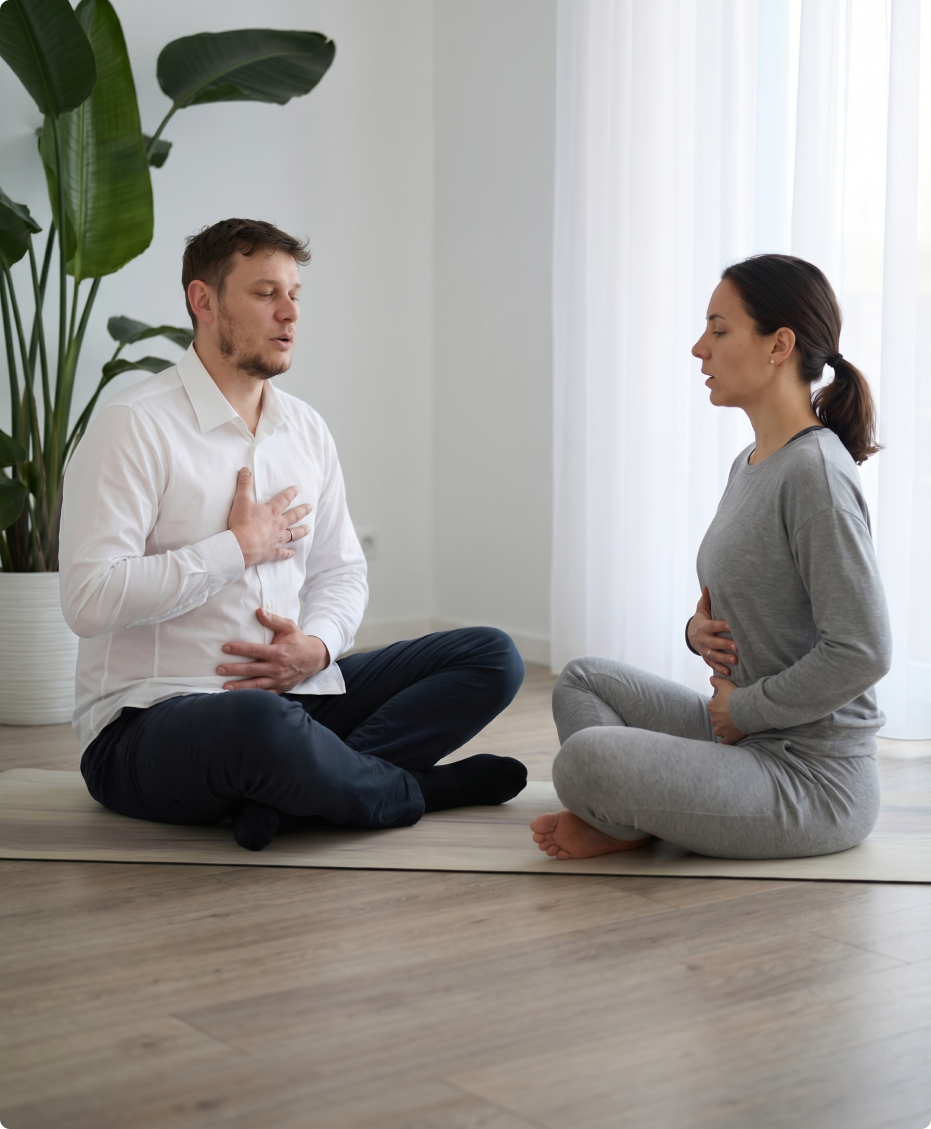
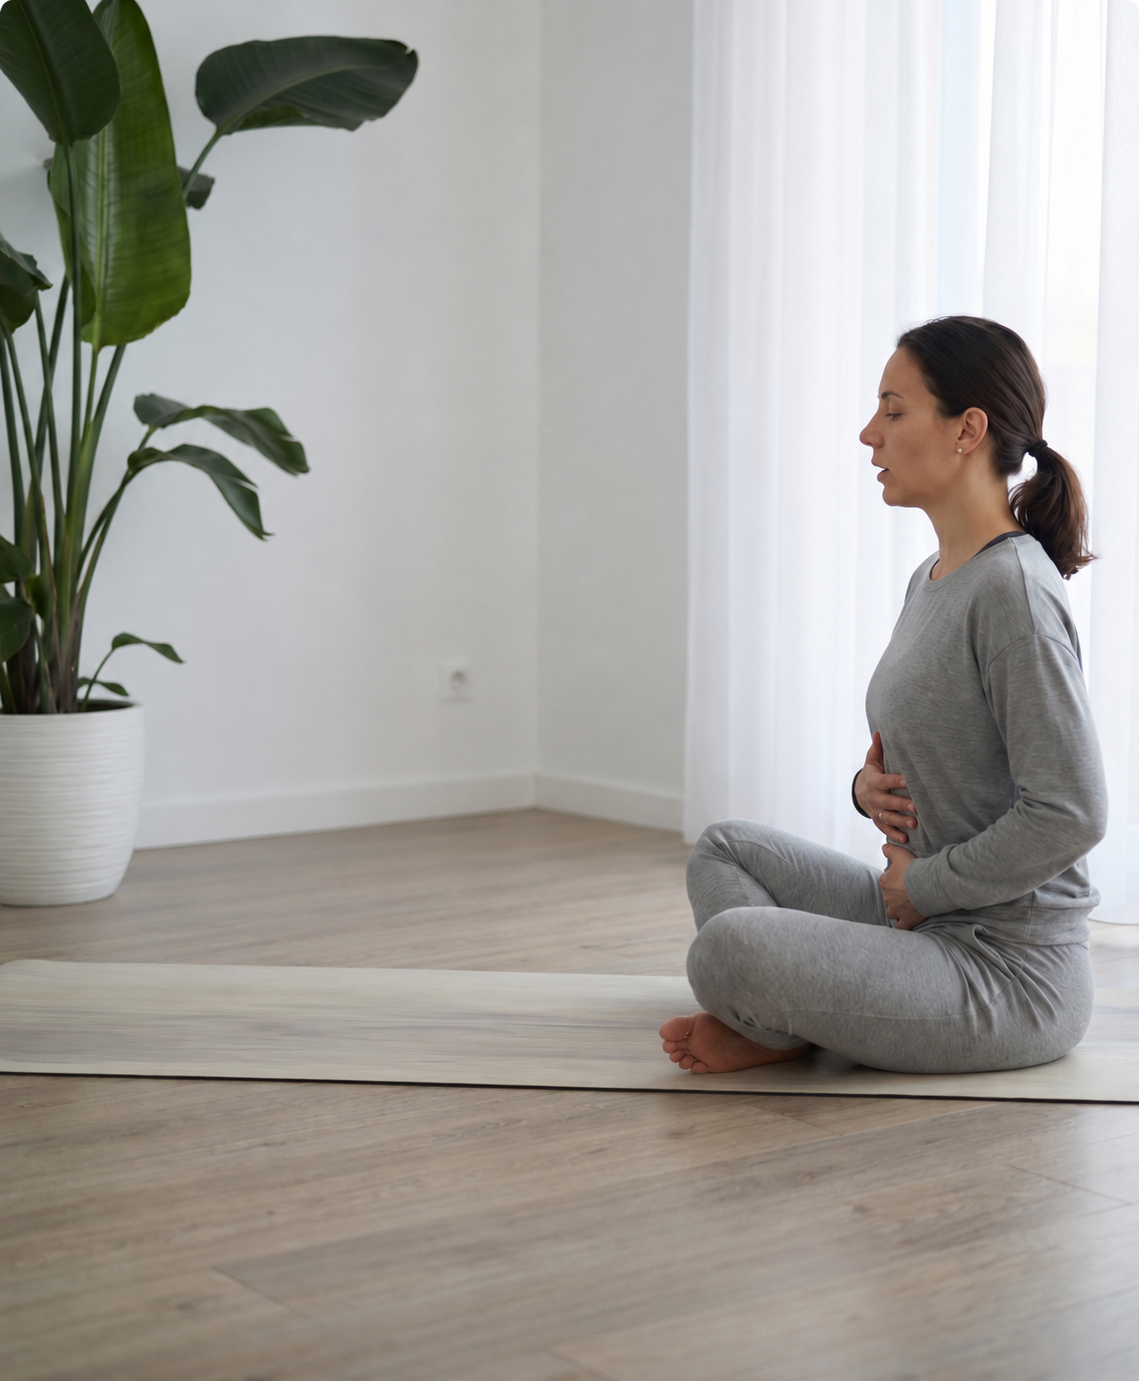
added info to footer; changed content

diff --git a/physiotherapie.html b/physiotherapie.html
@@ -315,7 +315,7 @@
                   <div class="review-card">
                     <div class="review-card__inner">
                       <div class="review-card__bottom">
-                        <h3 class="review-card__service">Allgemeine Physiotherapie</h3>
+                        <h3 class="review-card__service">Allgemeine Physiotherapie</h3>
                         <ul class="review-card__list">
                           <li class="review-card__item">Allgemeine Physiotherapie</li>
                           <li class="review-card__item">Manuelle Behandlung</li>
@@ -332,7 +332,7 @@
                   <div class="review-card">
                     <div class="review-card__inner">
                       <div class="review-card__bottom">
-                        <h3 class="review-card__service">Zusätzliche Anwendungen</h3>
+                        <h3 class="review-card__service">Zusätzliche Anwendungen</h3>
                         <ul class="review-card__list">
                           <li class="review-card__item">Wärmebehandlungen (z.B. Heißluft, Naturmoorpackungen, heiße Wickel)</li>
                           <li class="review-card__item">Kältetherapie (wie Eispackungen)</li>
@@ -547,9 +547,26 @@
             <path d="M5.95948 14.4189V0.918946M0.459473 6.41895L5.95948 0.918946L11.4595 6.41895" stroke="white" stroke-width="1.3"/>
           </svg>
         </button>
-        <div class="footer__email-info">
-          <span class="footer__email-label">e-mail</span>
-          <a href="mailto:[email redacted]" class="footer__email">[email redacted]</a>
+        <div class="footer__wrapper">
+          <div class="footer__email-info">
+            <span class="footer__email-label">e-mail</span>
+            <a href="mailto:[email redacted]" class="footer__email">[email redacted]</a>
+          </div>
+          <div class="footer__email-info">
+            <span class="footer__email-label">adresse</span>
+            <span class="footer__email">Max-Lang-Straße 5 70771 Leinfelden-Echterdingen</span>
+          </div>
+          <div class="footer__email-info">
+            <span class="footer__email-label">telefon</span>
+            <a href="tel:+4971150434348" class="footer__email">0711 - 5043 4348</a>
+            <a href="tel:+49017610716925" class="footer__email">0176 - 10716925</a>
+          </div>
+          <div class="footer__email-info">
+            <span class="footer__email-label">Behandlungszeiten</span>
+            <span class="footer__email">Mo: 8 - 18 Uhr</span>
+            <span class="footer__email">Di-Mi-Do: 8 - 20 Uhr</span>
+            <span class="footer__email">Fr: 8 - 15 Uhr</span>
+          </div>
         </div>
       </div>
 

diff --git a/t-shape.html b/t-shape.html
@@ -106,7 +106,7 @@
 
         <div class="philosophy-video-wrap" id="videoWrap">
           <video class="philosophy-video" id="sectionVideo" loop playsinline>
-            <source src="assets/vid/section.mp4" type="video/mp4">
+            <source src="assets/vid/t-shape-philosophy.mp4" type="video/mp4">
           </video>
           <button class="philosophy-video-btn" id="videoPlayBtn" type="button" aria-label="Play video">
             <svg width="20" height="22" viewBox="0 0 20 22" fill="none" xmlns="http://www.w3.org/2000/svg">
@@ -659,9 +659,26 @@
             <path d="M5.95948 14.4189V0.918946M0.459473 6.41895L5.95948 0.918946L11.4595 6.41895" stroke="white" stroke-width="1.3"/>
           </svg>
         </button>
-        <div class="footer__email-info">
-          <span class="footer__email-label">e-mail</span>
-          <a href="mailto:[email redacted]" class="footer__email">[email redacted]</a>
+        <div class="footer__wrapper">
+          <div class="footer__email-info">
+            <span class="footer__email-label">e-mail</span>
+            <a href="mailto:[email redacted]" class="footer__email">[email redacted]</a>
+          </div>
+          <div class="footer__email-info">
+            <span class="footer__email-label">adresse</span>
+            <span class="footer__email">Max-Lang-Straße 5 70771 Leinfelden-Echterdingen</span>
+          </div>
+          <div class="footer__email-info">
+            <span class="footer__email-label">telefon</span>
+            <a href="tel:+4971150434348" class="footer__email">0711 - 5043 4348</a>
+            <a href="tel:+49017610716925" class="footer__email">0176 - 10716925</a>
+          </div>
+          <div class="footer__email-info">
+            <span class="footer__email-label">Behandlungszeiten</span>
+            <span class="footer__email">Mo: 8 - 18 Uhr</span>
+            <span class="footer__email">Di-Mi-Do: 8 - 20 Uhr</span>
+            <span class="footer__email">Fr: 8 - 15 Uhr</span>
+          </div>
         </div>
       </div>
 

diff --git a/about-us.html b/about-us.html
@@ -419,9 +419,26 @@
             <path d="M5.95948 14.4189V0.918946M0.459473 6.41895L5.95948 0.918946L11.4595 6.41895" stroke="white" stroke-width="1.3"/>
           </svg>
         </button>
-        <div class="footer__email-info">
-          <span class="footer__email-label">e-mail</span>
-          <a href="mailto:[email redacted]" class="footer__email">[email redacted]</a>
+        <div class="footer__wrapper">
+          <div class="footer__email-info">
+            <span class="footer__email-label">e-mail</span>
+            <a href="mailto:[email redacted]" class="footer__email">[email redacted]</a>
+          </div>
+          <div class="footer__email-info">
+            <span class="footer__email-label">adresse</span>
+            <span class="footer__email">Max-Lang-Straße 5 70771 Leinfelden-Echterdingen</span>
+          </div>
+          <div class="footer__email-info">
+            <span class="footer__email-label">telefon</span>
+            <a href="tel:+4971150434348" class="footer__email">0711 - 5043 4348</a>
+            <a href="tel:+49017610716925" class="footer__email">0176 - 10716925</a>
+          </div>
+          <div class="footer__email-info">
+            <span class="footer__email-label">Behandlungszeiten</span>
+            <span class="footer__email">Mo: 8 - 18 Uhr</span>
+            <span class="footer__email">Di-Mi-Do: 8 - 20 Uhr</span>
+            <span class="footer__email">Fr: 8 - 15 Uhr</span>
+          </div>
         </div>
       </div>
 

diff --git a/atemtherapie.html b/atemtherapie.html
@@ -576,9 +576,26 @@
             <path d="M5.95948 14.4189V0.918946M0.459473 6.41895L5.95948 0.918946L11.4595 6.41895" stroke="white" stroke-width="1.3"/>
           </svg>
         </button>
-        <div class="footer__email-info">
-          <span class="footer__email-label">e-mail</span>
-          <a href="mailto:[email redacted]" class="footer__email">[email redacted]</a>
+        <div class="footer__wrapper">
+          <div class="footer__email-info">
+            <span class="footer__email-label">e-mail</span>
+            <a href="mailto:[email redacted]" class="footer__email">[email redacted]</a>
+          </div>
+          <div class="footer__email-info">
+            <span class="footer__email-label">adresse</span>
+            <span class="footer__email">Max-Lang-Straße 5 70771 Leinfelden-Echterdingen</span>
+          </div>
+          <div class="footer__email-info">
+            <span class="footer__email-label">telefon</span>
+            <a href="tel:+4971150434348" class="footer__email">0711 - 5043 4348</a>
+            <a href="tel:+49017610716925" class="footer__email">0176 - 10716925</a>
+          </div>
+          <div class="footer__email-info">
+            <span class="footer__email-label">Behandlungszeiten</span>
+            <span class="footer__email">Mo: 8 - 18 Uhr</span>
+            <span class="footer__email">Di-Mi-Do: 8 - 20 Uhr</span>
+            <span class="footer__email">Fr: 8 - 15 Uhr</span>
+          </div>
         </div>
       </div>
 

diff --git a/cmd-behandlung.html b/cmd-behandlung.html
@@ -768,9 +768,26 @@
             <path d="M5.95948 14.4189V0.918946M0.459473 6.41895L5.95948 0.918946L11.4595 6.41895" stroke="white" stroke-width="1.3"/>
           </svg>
         </button>
-        <div class="footer__email-info">
-          <span class="footer__email-label">e-mail</span>
-          <a href="mailto:[email redacted]" class="footer__email">[email redacted]</a>
+        <div class="footer__wrapper">
+          <div class="footer__email-info">
+            <span class="footer__email-label">e-mail</span>
+            <a href="mailto:[email redacted]" class="footer__email">[email redacted]</a>
+          </div>
+          <div class="footer__email-info">
+            <span class="footer__email-label">adresse</span>
+            <span class="footer__email">Max-Lang-Straße 5 70771 Leinfelden-Echterdingen</span>
+          </div>
+          <div class="footer__email-info">
+            <span class="footer__email-label">telefon</span>
+            <a href="tel:+4971150434348" class="footer__email">0711 - 5043 4348</a>
+            <a href="tel:+49017610716925" class="footer__email">0176 - 10716925</a>
+          </div>
+          <div class="footer__email-info">
+            <span class="footer__email-label">Behandlungszeiten</span>
+            <span class="footer__email">Mo: 8 - 18 Uhr</span>
+            <span class="footer__email">Di-Mi-Do: 8 - 20 Uhr</span>
+            <span class="footer__email">Fr: 8 - 15 Uhr</span>
+          </div>
         </div>
       </div>
 

diff --git a/index.html b/index.html
@@ -820,9 +820,26 @@
             <path d="M5.95948 14.4189V0.918946M0.459473 6.41895L5.95948 0.918946L11.4595 6.41895" stroke="white" stroke-width="1.3"/>
           </svg>
         </button>
-        <div class="footer__email-info">
-          <span class="footer__email-label">e-mail</span>
-          <a href="mailto:[email redacted]" class="footer__email">[email redacted]</a>
+        <div class="footer__wrapper">
+          <div class="footer__email-info">
+            <span class="footer__email-label">e-mail</span>
+            <a href="mailto:[email redacted]" class="footer__email">[email redacted]</a>
+          </div>
+          <div class="footer__email-info">
+            <span class="footer__email-label">adresse</span>
+            <span class="footer__email">Max-Lang-Straße 5 70771 Leinfelden-Echterdingen</span>
+          </div>
+          <div class="footer__email-info">
+            <span class="footer__email-label">telefon</span>
+            <a href="tel:+4971150434348" class="footer__email">0711 - 5043 4348</a>
+            <a href="tel:+49017610716925" class="footer__email">0176 - 10716925</a>
+          </div>
+          <div class="footer__email-info">
+            <span class="footer__email-label">Behandlungszeiten</span>
+            <span class="footer__email">Mo: 8 - 18 Uhr</span>
+            <span class="footer__email">Di-Mi-Do: 8 - 20 Uhr</span>
+            <span class="footer__email">Fr: 8 - 15 Uhr</span>
+          </div>
         </div>
       </div>
 

diff --git a/jobs.html b/jobs.html
@@ -386,9 +386,26 @@
             <path d="M5.95948 14.4189V0.918946M0.459473 6.41895L5.95948 0.918946L11.4595 6.41895" stroke="white" stroke-width="1.3"/>
           </svg>
         </button>
-        <div class="footer__email-info">
-          <span class="footer__email-label">e-mail</span>
-          <a href="mailto:[email redacted]" class="footer__email">[email redacted]</a>
+        <div class="footer__wrapper">
+          <div class="footer__email-info">
+            <span class="footer__email-label">e-mail</span>
+            <a href="mailto:[email redacted]" class="footer__email">[email redacted]</a>
+          </div>
+          <div class="footer__email-info">
+            <span class="footer__email-label">adresse</span>
+            <span class="footer__email">Max-Lang-Straße 5 70771 Leinfelden-Echterdingen</span>
+          </div>
+          <div class="footer__email-info">
+            <span class="footer__email-label">telefon</span>
+            <a href="tel:+4971150434348" class="footer__email">0711 - 5043 4348</a>
+            <a href="tel:+49017610716925" class="footer__email">0176 - 10716925</a>
+          </div>
+          <div class="footer__email-info">
+            <span class="footer__email-label">Behandlungszeiten</span>
+            <span class="footer__email">Mo: 8 - 18 Uhr</span>
+            <span class="footer__email">Di-Mi-Do: 8 - 20 Uhr</span>
+            <span class="footer__email">Fr: 8 - 15 Uhr</span>
+          </div>
         </div>
       </div>
 

diff --git a/osteopathie.html b/osteopathie.html
@@ -587,9 +587,26 @@
             <path d="M5.95948 14.4189V0.918946M0.459473 6.41895L5.95948 0.918946L11.4595 6.41895" stroke="white" stroke-width="1.3"/>
           </svg>
         </button>
-        <div class="footer__email-info">
-          <span class="footer__email-label">e-mail</span>
-          <a href="mailto:[email redacted]" class="footer__email">[email redacted]</a>
+        <div class="footer__wrapper">
+          <div class="footer__email-info">
+            <span class="footer__email-label">e-mail</span>
+            <a href="mailto:[email redacted]" class="footer__email">[email redacted]</a>
+          </div>
+          <div class="footer__email-info">
+            <span class="footer__email-label">adresse</span>
+            <span class="footer__email">Max-Lang-Straße 5 70771 Leinfelden-Echterdingen</span>
+          </div>
+          <div class="footer__email-info">
+            <span class="footer__email-label">telefon</span>
+            <a href="tel:+4971150434348" class="footer__email">0711 - 5043 4348</a>
+            <a href="tel:+49017610716925" class="footer__email">0176 - 10716925</a>
+          </div>
+          <div class="footer__email-info">
+            <span class="footer__email-label">Behandlungszeiten</span>
+            <span class="footer__email">Mo: 8 - 18 Uhr</span>
+            <span class="footer__email">Di-Mi-Do: 8 - 20 Uhr</span>
+            <span class="footer__email">Fr: 8 - 15 Uhr</span>
+          </div>
         </div>
       </div>
 

diff --git a/relounge.html b/relounge.html
@@ -654,9 +654,26 @@
             <path d="M5.95948 14.4189V0.918946M0.459473 6.41895L5.95948 0.918946L11.4595 6.41895" stroke="white" stroke-width="1.3"/>
           </svg>
         </button>
-        <div class="footer__email-info">
-          <span class="footer__email-label">e-mail</span>
-          <a href="mailto:[email redacted]" class="footer__email">[email redacted]</a>
+        <div class="footer__wrapper">
+          <div class="footer__email-info">
+            <span class="footer__email-label">e-mail</span>
+            <a href="mailto:[email redacted]" class="footer__email">[email redacted]</a>
+          </div>
+          <div class="footer__email-info">
+            <span class="footer__email-label">adresse</span>
+            <span class="footer__email">Max-Lang-Straße 5 70771 Leinfelden-Echterdingen</span>
+          </div>
+          <div class="footer__email-info">
+            <span class="footer__email-label">telefon</span>
+            <a href="tel:+4971150434348" class="footer__email">0711 - 5043 4348</a>
+            <a href="tel:+49017610716925" class="footer__email">0176 - 10716925</a>
+          </div>
+          <div class="footer__email-info">
+            <span class="footer__email-label">Behandlungszeiten</span>
+            <span class="footer__email">Mo: 8 - 18 Uhr</span>
+            <span class="footer__email">Di-Mi-Do: 8 - 20 Uhr</span>
+            <span class="footer__email">Fr: 8 - 15 Uhr</span>
+          </div>
         </div>
       </div>
 

diff --git a/sporttherapie.html b/sporttherapie.html
@@ -558,9 +558,26 @@
             <path d="M5.95948 14.4189V0.918946M0.459473 6.41895L5.95948 0.918946L11.4595 6.41895" stroke="white" stroke-width="1.3"/>
           </svg>
         </button>
-        <div class="footer__email-info">
-          <span class="footer__email-label">e-mail</span>
-          <a href="mailto:[email redacted]" class="footer__email">[email redacted]</a>
+        <div class="footer__wrapper">
+          <div class="footer__email-info">
+            <span class="footer__email-label">e-mail</span>
+            <a href="mailto:[email redacted]" class="footer__email">[email redacted]</a>
+          </div>
+          <div class="footer__email-info">
+            <span class="footer__email-label">adresse</span>
+            <span class="footer__email">Max-Lang-Straße 5 70771 Leinfelden-Echterdingen</span>
+          </div>
+          <div class="footer__email-info">
+            <span class="footer__email-label">telefon</span>
+            <a href="tel:+4971150434348" class="footer__email">0711 - 5043 4348</a>
+            <a href="tel:+49017610716925" class="footer__email">0176 - 10716925</a>
+          </div>
+          <div class="footer__email-info">
+            <span class="footer__email-label">Behandlungszeiten</span>
+            <span class="footer__email">Mo: 8 - 18 Uhr</span>
+            <span class="footer__email">Di-Mi-Do: 8 - 20 Uhr</span>
+            <span class="footer__email">Fr: 8 - 15 Uhr</span>
+          </div>
         </div>
       </div>
 

diff --git a/css/media-physiotherapie.css b/css/media-physiotherapie.css
@@ -278,16 +278,8 @@
     max-width: 100px;
   }
 
-  .review-card__service {
-    max-width: 116px;
-  }
-
   .review-card__list {
     padding-left: 15px;
-  }
-
-  .swiper-slide:first-child .review-card__service {
-    max-width: 144px;
   }
 
   .section-process__cta {

diff --git a/css/physiotherapie.css b/css/physiotherapie.css
@@ -645,12 +645,8 @@
 }
 
 .review-card__service {
-  max-width: 169px;
-  word-break: break-all;
-}
-
-.swiper-slide:first-child .review-card__service {
-  max-width: 208px;
+  max-width: 100%;
+  word-break: normal;  
 }
 
 .review-card__item {